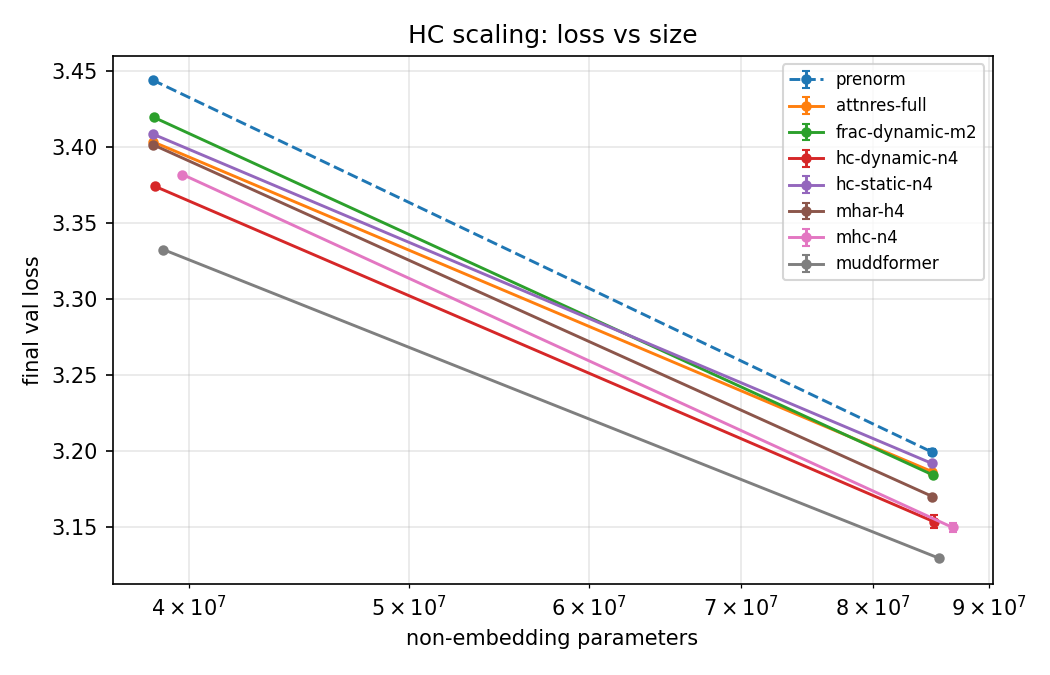
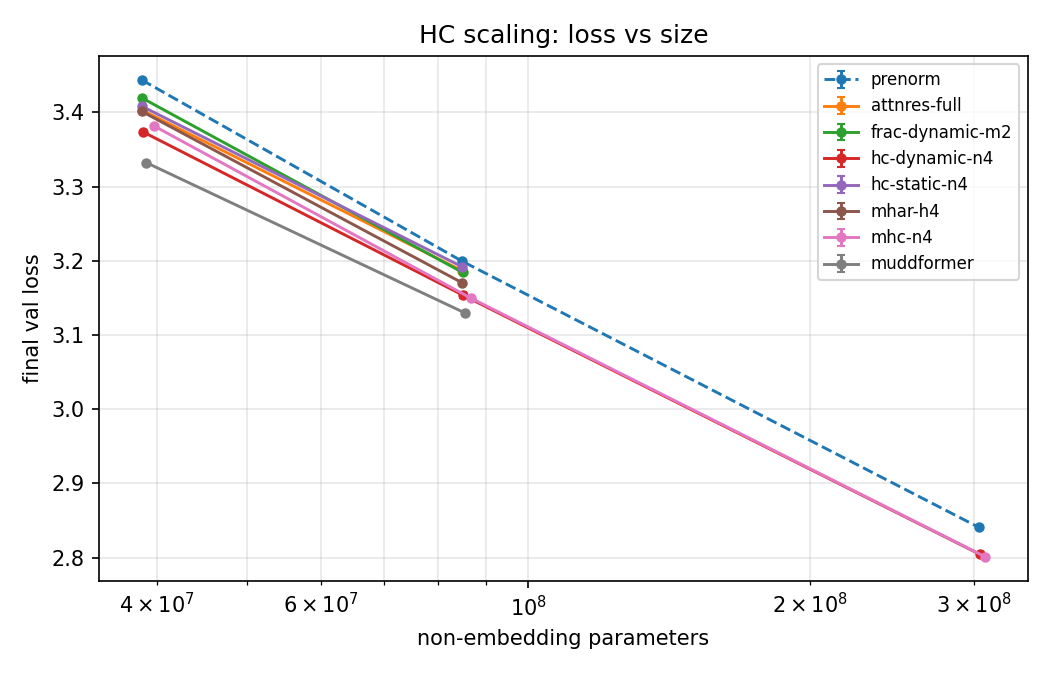
results: GPU scaling L (303M, 6B tokens): mHC -0.040, HC-dyn -0.036; MUDDFormer diverges at 24 layers without PrePostDANorm

diff --git a/README.md b/README.md
@@ -29,7 +29,7 @@ same function as the pre-norm baseline. This is checked by
 
 ## Results
 
-### GPU scaling (8×H100): HC family and friends at S and M scale
+### GPU scaling (8×H100): HC family and friends from 38M to 300M
 
 FineWeb-Edu, GPT-2 tokenizer, ~20 training tokens per non-embedding parameter, global batch 262K
 tokens, WSD schedule, bf16 + `torch.compile`, one variant per GPU. Configs: `configs/scaling_gpu/{s,m}.yaml`,
@@ -39,21 +39,25 @@ variants: `configs/variants_gpu.yaml`.
 |---|---|---|---|
 | S | 12L × 512 | 38.5M | 0.79B |
 | M | 12L × 768 | 85.0M | 1.70B |
+| L | 24L × 1024 | 303.6M | 6.03B (8-GPU DDP per variant) |
 
 Row `prenorm` shows its validation loss; the other rows show Δ vs pre-norm at the same size (negative = better).
 Where there are several seeds the table gives mean ± std (pre-norm at M: 3 seeds, std 0.002).
 
-| variant | s | m |
-|---|---|---|
-| prenorm | 3.4439 | 3.1993 ± 0.0021 |
-| attnres-full | -0.0407 | -0.0130 |
-| frac-dynamic-m2 | -0.0245 | -0.0150 |
-| hc-dynamic-n4 | -0.0699 | -0.0457 ± 0.0042 (n=3) |
-| hc-static-n4 | -0.0355 | -0.0075 |
-| mhar-h4 | -0.0426 | -0.0292 |
-| mhc-n4 | -0.0621 | -0.0495 ± 0.0029 (n=3) |
-| muddformer | -0.1115 | -0.0698 ± 0.0011 (n=2) |
-| *non-emb params* | 38.5M | 85.0M |
+| variant | s | m | l |
+|---|---|---|---|
+| prenorm | 3.4439 | 3.1993 ± 0.0021 | 2.8405 |
+| attnres-full | -0.0407 | -0.0130 | — |
+| frac-dynamic-m2 | -0.0245 | -0.0150 | — |
+| hc-dynamic-n4 | -0.0699 | -0.0457 ± 0.0042 (n=3) | -0.0360 |
+| hc-static-n4 | -0.0355 | -0.0075 | — |
+| mhar-h4 | -0.0426 | -0.0292 | — |
+| mhc-n4 | -0.0621 | -0.0495 ± 0.0029 (n=3) | -0.0396 |
+| muddformer | -0.1115 | -0.0698 ± 0.0011 (n=2) | — |
+| *non-emb params* | 38.5M | 85.0M | 303.6M |
+
+At L only pre-norm, mHC and dynamic HC finished (1 seed each). MUDDFormer diverged at L,
+see below. The other variants were not run at L.
 
 ![gain vs size](results/scaling_gpu/delta_vs_params.png)
 
@@ -62,17 +66,21 @@ Full per-size tables with throughput and memory: [`results/scaling_gpu_s`](resul
 
 What the GPU runs show:
 
-* **Dynamic, input-dependent mixing is what survives scale.** At M, MUDDFormer (−0.070, 2 seeds),
-  mHC (−0.050, 3 seeds) and dynamic HC (−0.046, 3 seeds) are 10–30× the pre-norm seed std.
-  Static HC shrinks from −0.036 at S to −0.008 at M.
-* **Gains shrink from S to M for every variant.** mHC shrinks least (−0.062 → −0.050). Whether
-  the gains level off or vanish needs the L size (24L × 1024, 302M, `configs/scaling_gpu/l.yaml`),
-  which has not been run yet.
+* **mHC and dynamic HC keep a real gain up to 300M**, shrinking slowly: mHC −0.062 → −0.050 → −0.040,
+  dynamic HC −0.070 → −0.046 → −0.036 from S to M to L. The gain drops by roughly 20–25% for each
+  ~3× increase in size, so it is shrinking, but it has not vanished by 300M.
+* **Static mixing does not survive scale.** Static HC falls from −0.036 at S to −0.008 at M.
+  AttnRes (−0.041 → −0.013) and Frac (−0.025 → −0.015) also shrink quickly.
+* **MUDDFormer is the best variant at S and M** (−0.112, then −0.070 ± 0.001) **but diverged at L**
+  (24 layers). Gradient spikes began around step 3000, the loss blew up near step 3300, and the
+  model collapsed to the initial loss by step 7000. The paper uses *PrePostDANorm* for deep
+  models, and this implementation omits it (see implementation notes). Treat MUDDFormer at
+  ≥24 layers as unstable here until PrePostDANorm is added.
 * **Depth attention.** MHAR beats single-head AttnRes at M (−0.029 vs −0.013, 1 seed each).
-* **Throughput** (relative to pre-norm, measured with 8 jobs sharing one node) ranges from 0.47×
-  (HC/mHC) to 0.78× (Frac). MHAR's 0.23× is an **implementation** limit, not the method's:
-  `torch.compile` fuses the multi-head RMSNorm backward and the softmax into one slow kernel.
-  Contributions welcome.
+* **Throughput** (relative to pre-norm): at L with 8-GPU DDP, mHC runs at 0.53× and dynamic HC
+  at 0.51×. At S/M (8 jobs sharing a node) the range is 0.47× (HC/mHC) to 0.78× (Frac).
+  MHAR's 0.23× is an **implementation** limit, not the method's: `torch.compile` fuses the
+  multi-head RMSNorm backward and the softmax into one slow kernel. Contributions welcome.
 * **Small scale misleads.** mHC was *worse* than pre-norm in the laptop runs below and static HC
   beat dynamic HC there. Both reverse on GPU.
 
@@ -228,7 +236,8 @@ The choices below are ones the papers leave open, so we decided them ourselves:
 * **DenseFormer**: dilation supported, period fixed to 1.
 * **MUDDFormer**: DA weights from `GELU(RMSNorm(X_i) W1) W2 + a_i` with W2 = 0 and a_i one-hot.
   The last layer produces only the R stream, with hidden width ×4. Not included:
-  PrePostDANorm and the depth-varying FFN width.
+  PrePostDANorm and the depth-varying FFN width. Without PrePostDANorm the 24-layer (L)
+  run diverged, so add it before using MUDDFormer in deep models.
 * **LAuReL**: applied per sublayer. The RW weights are bounded as `(α, β) = 2·softmax(w)`
   (α = β = 1 at init). The paper asks for a bounding map but does not fix one. LR uses the
   paper's "column orthogonal" A init and B = 0. PA is not implemented.

diff --git a/results/scaling_gpu/scaling.md b/results/scaling_gpu/scaling.md
@@ -1,13 +1,13 @@
 Row `prenorm` = its val loss; other rows = Δ vs prenorm at the same width.
 
-| variant | s | m |
-|---|---|---|
-| prenorm | 3.4439 | 3.1993 ± 0.0021 |
-| attnres-full | -0.0407 | -0.0130 |
-| frac-dynamic-m2 | -0.0245 | -0.0150 |
-| hc-dynamic-n4 | -0.0699 | -0.0457 ± 0.0042 (n=3) |
-| hc-static-n4 | -0.0355 | -0.0075 |
-| mhar-h4 | -0.0426 | -0.0292 |
-| mhc-n4 | -0.0621 | -0.0495 ± 0.0029 (n=3) |
-| muddformer | -0.1115 | -0.0698 ± 0.0011 (n=2) |
-| *non-emb params* | 38.5M | 85.0M |
+| variant | s | m | l |
+|---|---|---|---|
+| prenorm | 3.4439 | 3.1993 ± 0.0021 | 2.8405 |
+| attnres-full | -0.0407 | -0.0130 | — |
+| frac-dynamic-m2 | -0.0245 | -0.0150 | — |
+| hc-dynamic-n4 | -0.0699 | -0.0457 ± 0.0042 (n=3) | -0.0360 |
+| hc-static-n4 | -0.0355 | -0.0075 | — |
+| mhar-h4 | -0.0426 | -0.0292 | — |
+| mhc-n4 | -0.0621 | -0.0495 ± 0.0029 (n=3) | -0.0396 |
+| muddformer | -0.1115 | -0.0698 ± 0.0011 (n=2) | — |
+| *non-emb params* | 38.5M | 85.0M | 303.6M |
